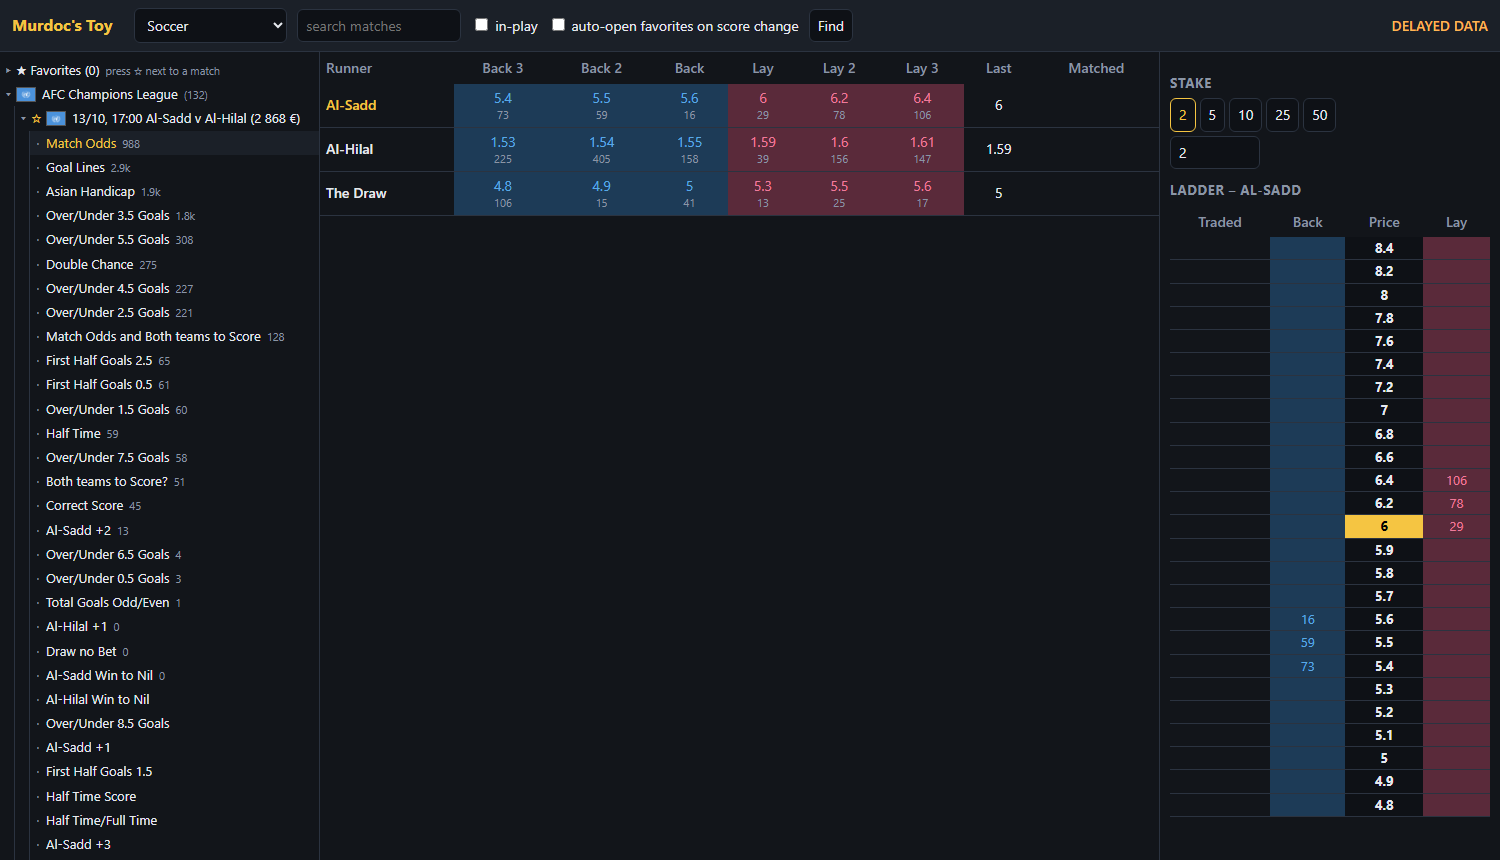
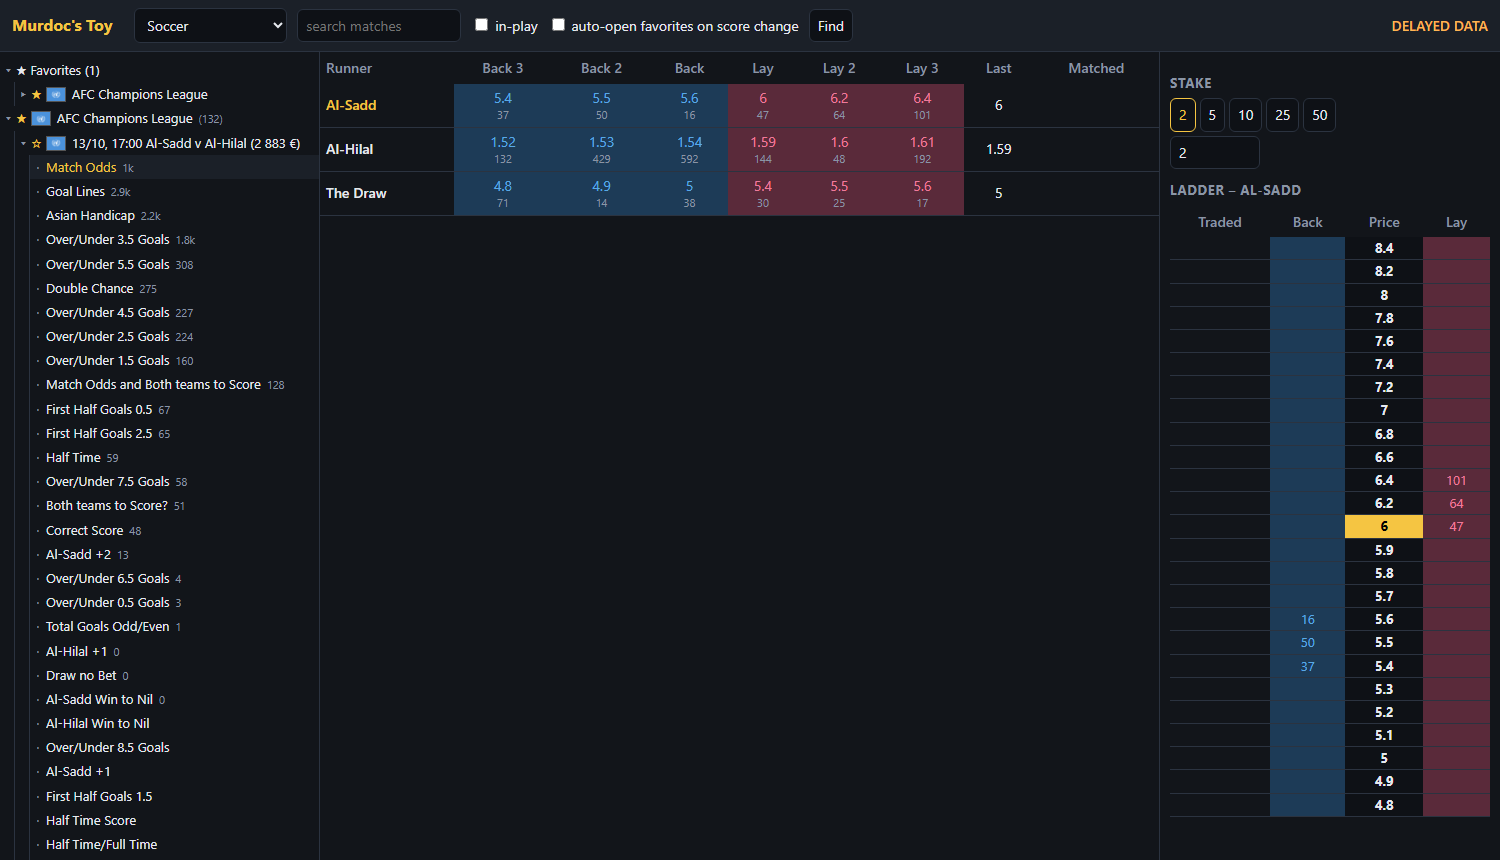
Favorite competitions (desktop Classic and Modern, web); goals in a favorite competition open ladders; v0.4.3

Changed region(s): [[0.0307, 0.3023, 0.184, 0.6651], [0.0, 0.0605, 0.2147, 0.2721], [0.0307, 0.6953, 0.1227, 0.9977]]

diff --git a/web/public/index.html b/web/public/index.html
@@ -185,6 +185,8 @@ const popup = id => window.open('ladder.html?marketId=' + encodeURIComponent(id)
 function pickMarket(m) { state.market = m; state.book = null; state.sel = null; poll(); }
 function marketNode(m) { return treeNode(m.marketName, m.totalMatched > 0 ? short(m.totalMatched) : '', null, () => pickMarket(m), () => popup(m.marketId)); }
 const favs = new Map();   // eventId -> name
+const favComps = new Map();   // competitionId -> { name, sportId, region }
+let favCompEvents = [];   // matches of the favorite competitions, so a goal in any of them can open a ladder
 const volumes = {};       // eventId -> matched volume of the match
 const opened = new Map(); // marketId -> popup window we opened
 
@@ -196,6 +198,29 @@ function eventLabel(e, m) {
   const vol = volumes[e.id] > 0 ? ` (${spaced(volumes[e.id])} €)` : '';
   return when + game + vol;
 }
+
+/** A competition row: flag, star, name; expands to its matches. */
+function compNode(c, sport) {
+  const flag = flagCode(c.region, null, c.name);
+  const n = treeNode(c.name, c.marketCount ? `(${c.marketCount})` : '', async () =>
+    (await api('events?' + qs({ eventTypeId: sport, competitionId: c.id, inPlay: inPlay() }))).map(e => eventNode(e, flag)), null, null, flag);
+  const star = el('span', 'star'); star.title = 'Favorite competition';
+  star.textContent = favComps.has(c.id) ? '★' : '☆';
+  star.onclick = ev => { ev.stopPropagation(); toggleFavComp(c, sport); };
+  n.row.insertBefore(star, n.row.children[1]);
+  n.row.dataset.cid = c.id;
+  return n;
+}
+async function toggleFavComp(c, sport) {
+  try { await api('favoritecompetitions', { competitionId: c.id, name: c.name, sportId: sport, region: c.region ?? null, favorite: !favComps.has(c.id) }); await loadFavs(); }
+  catch (err) { toast(err.message); }
+}
+async function loadFavCompEvents() {
+  const all = [];
+  for (const [id, c] of favComps) { try { all.push(...await api('events?' + qs({ eventTypeId: c.sportId, competitionId: id, inPlay: 0 }))); } catch { /* next time */ } }
+  favCompEvents = all;
+}
+setInterval(loadFavCompEvents, 3 * 60 * 1000);
 
 function eventNode(e, inheritedFlag = null) {
   const code = flagCode(null, e.countryCode, '') ?? inheritedFlag;
@@ -213,15 +238,19 @@ function eventNode(e, inheritedFlag = null) {
 
 async function loadFavs() {
   try { favs.clear(); for (const f of await api('favorites')) favs.set(f.eventId, f.name); } catch { /* keep what we have */ }
-  renderFavs(); paintScores(); pollVolumes();
+  try { favComps.clear(); for (const c of await api('favoritecompetitions')) favComps.set(c.competitionId, { name: c.name, sportId: c.sportId, region: c.region }); } catch { /* older server */ }
+  renderFavs(); paintScores(); pollVolumes(); loadFavCompEvents();
 }
 /** The ★ Favorites section at the top of the tree. */
 function renderFavs() {
   const box = $('markets'); box.querySelector(':scope > [data-fav]')?.remove();
-  const node = treeNode(`★ Favorites (${favs.size})`, favs.size ? '' : 'press ☆ next to a match', async () =>
-    [...favs].map(([id, name]) => eventNode({ id, name, openDate: null })));
+  const count = favs.size + favComps.size;
+  const node = treeNode(`★ Favorites (${count})`, count ? '' : 'press ☆ next to a match or competition', async () => [
+    ...[...favComps].map(([id, c]) => compNode({ id, name: c.name, region: c.region, marketCount: 0 }, c.sportId)),
+    ...[...favs].map(([id, name]) => eventNode({ id, name, openDate: null })),
+  ]);
   node.dataset.fav = '1'; box.prepend(node);
-  if (favs.size) node.open();
+  if (count) node.open();
 }
 async function toggleFav(e) {
   try { await api('favorites', { eventId: e.id, name: e.name, favorite: !favs.has(e.id) }); await loadFavs(); }
@@ -242,7 +271,7 @@ async function find() {
     const nodes = text
       ? (await api('events?' + qs({ eventTypeId: sportId(), q: text, inPlay: inPlay() }))).map(eventNode)
       : (await api('competitions?' + qs({ eventTypeId: sportId(), inPlay: inPlay() }))).map(c =>
-          treeNode(c.name, `(${c.marketCount})`, async () => (await api('events?' + qs({ eventTypeId: sportId(), competitionId: c.id, inPlay: inPlay() }))).map(e => eventNode(e, flagCode(c.region, null, c.name))), null, null, flagCode(c.region, null, c.name)));
+          compNode(c, sportId()));
     box.replaceChildren(...(nodes.length ? nodes : [el('div', 'node', 'Nothing found')]));
     renderFavs();
     if (!state.market) autoSelect(box);
@@ -293,8 +322,11 @@ function checkScoreChanges() {
     const key = m.home + '|' + m.away, cur = `${m.homeScore}-${m.awayScore}`, prev = lastScore.get(key);
     lastScore.set(key, cur);
     if (prev === undefined || prev === cur) continue;
-    for (const [id, name] of favs) {
-      if (matchScore(name, m.home, m.away) <= 0) continue;
+    const watched = [...favs].map(([id, name]) => [id, name]).concat(favCompEvents.map(e => [e.id, e.name]));
+    const seen = new Set();
+    for (const [id, name] of watched) {
+      if (seen.has(id) || matchScore(name, m.home, m.away) <= 0) continue;
+      seen.add(id);
       flashUntil = Date.now() + 20000;
       toast(`${name}: ${prev} -> ${cur}`, 8000);
       if ($('autoopen').checked) openFavoriteLadder(id).catch(e => toast(e.message));

diff --git a/src/MurdocsToy.Desktop/MainForm.cs b/src/MurdocsToy.Desktop/MainForm.cs
@@ -107,11 +107,25 @@ sealed class MainForm : Form
         _find.Click += async (_, _) => await LoadTree();
         _autoOpen.Checked = _opt.AutoOpenOnScore;
         _autoOpen.CheckedChanged += (_, _) => { _opt.AutoOpenOnScore = _autoOpen.Checked; _opt.Save(); Say(_autoOpen.Checked ? "Favorites: ladder opens when a score changes" : "Favorites: auto-open off"); };
-        _favBtn.Click += (_, _) => { if (SelectedEvent() is { } ev) _host.ToggleFavorite(ev); else Say("Select a match first"); };
+        _favBtn.Click += (_, _) =>
+        {
+            if (_tree.SelectedNode is { Tag: CompetitionNode comp } cn) _host.ToggleFavoriteCompetition(comp, string.IsNullOrEmpty(cn.Name) ? SportId : cn.Name);
+            else if (SelectedEvent() is { } ev) _host.ToggleFavorite(ev);
+            else Say("Select a match or competition first");
+        };
         _tree.NodeMouseClick += (_, e) =>
         {
             if (e.Button != MouseButtons.Right) return;
             _tree.SelectedNode = e.Node;
+            if (e.Node.Tag is CompetitionNode comp)
+            {
+                var cmenu = new ContextMenuStrip();
+                var sport = string.IsNullOrEmpty(e.Node.Name) ? SportId : e.Node.Name;
+                cmenu.Items.Add(_host.IsFavoriteCompetition(comp.Id) ? "Remove competition from favorites" : "Add competition to favorites", null, (_, _) => _host.ToggleFavoriteCompetition(comp, sport));
+                Theme.Menu(cmenu);
+                cmenu.Show(_tree, e.Location);
+                return;
+            }
             if (SelectedEvent() is not { } ev) return;
             var menu = new ContextMenuStrip();
             menu.Items.Add(_host.IsFavorite(ev.Id) ? "Remove from favorites" : "Add to favorites", null, (_, _) => _host.ToggleFavorite(ev));
@@ -156,6 +170,7 @@ sealed class MainForm : Form
             _sports.SelectedIndex = Math.Max(0, _host.Types.FindIndex(t => t.Name == "Soccer"));
             _host.StartScores();
             _host.StartMirror();
+            _host.StartFavoriteCompetitions();
             if (_host.Web != null) { _webBtn.Visible = true; _webBtn.Text = "Web " + _host.Web.Url.Replace("http://", "").TrimEnd('/'); Theme.Apply(this); }
             await LoadTree();
             await AutoSelect();
@@ -202,12 +217,20 @@ sealed class MainForm : Form
                 foreach (var e in await _bf.ListEventsAsync(SportId, null, text, _inPlay.Checked)) _tree.Nodes.Add(EventTreeNode(e, null));
             else
                 foreach (var c in await _bf.ListCompetitionsAsync(SportId, _inPlay.Checked))
-                    _tree.Nodes.Add(WithPlaceholder(Node($"{c.Name} ({c.MarketCount})", c, Flags.CodeFor(c.Region, null, c.Name))));
+                    _tree.Nodes.Add(WithPlaceholder(CompetitionNode_(c, SportId, $"{c.Name} ({c.MarketCount})")));
             SyncFavorites();
             _ = RefreshVolumes();
             Say(_tree.Nodes.Count <= 1 ? "Nothing found" : $"{_tree.Nodes.Count} {(text != null ? "matches" : "competitions")}");
         }
         catch (Exception ex) { Say(ex.Message); }
+    }
+
+    /// <summary>A competition node; Name remembers its sport so favorites load correctly after the sport is switched.</summary>
+    TreeNode CompetitionNode_(CompetitionNode c, string sportId, string text)
+    {
+        var n = Node(text, c, Flags.CodeFor(c.Region, null, c.Name));
+        n.Name = sportId;
+        return n;
     }
 
     TreeNode EventTreeNode(EventNode e, string? inheritedFlag)
@@ -237,10 +260,12 @@ sealed class MainForm : Form
         var old = _tree.Nodes.Cast<TreeNode>().FirstOrDefault(x => x.Tag is string t && t == "favorites");
         bool wasOpen = old?.IsExpanded ?? true;
         old?.Remove();
-        var root = Node($"★ Favorites ({_opt.Favorites.Count})", "favorites");
+        var root = Node($"★ Favorites ({_opt.Favorites.Count + _opt.FavoriteCompetitions.Count})", "favorites");
         root.NodeFont = new Font(_tree.Font, FontStyle.Bold);
+foreach (var fc in _opt.FavoriteCompetitions)
+            root.Nodes.Add(WithPlaceholder(CompetitionNode_(new CompetitionNode(fc.CompetitionId, fc.Name, fc.Region, 0), fc.SportId, "★ " + fc.Name)));
         foreach (var f in _opt.Favorites) root.Nodes.Add(EventTreeNode(new EventNode(f.EventId, f.Name, null, null, 0), null));
-        if (_opt.Favorites.Count == 0) root.Nodes.Add(Node("(right-click a match, or select it and press ★ Favorite)", "hint"));
+        if (_opt.Favorites.Count == 0 && _opt.FavoriteCompetitions.Count == 0) root.Nodes.Add(Node("(right-click a match or competition, or select it and press ★ Favorite)", "hint"));
         _tree.Nodes.Insert(0, root);
         if (wasOpen) root.Expand();
         RefreshScores();
@@ -262,7 +287,8 @@ sealed class MainForm : Form
             if (n.Tag is CompetitionNode c)
             {
                 var flag = Flags.CodeFor(c.Region, null, c.Name);
-                kids.AddRange((await _bf.ListEventsAsync(SportId, c.Id, null, _inPlay.Checked)).Select(e => EventTreeNode(e, flag)));
+                var sport = string.IsNullOrEmpty(n.Name) ? SportId : n.Name;
+                kids.AddRange((await _bf.ListEventsAsync(sport, c.Id, null, _inPlay.Checked)).Select(e => EventTreeNode(e, flag)));
             }
             else if (n.Tag is EventNode e)
                 foreach (var m in await _bf.ListEventMarketsAsync(e.Id))

diff --git a/src/MurdocsToy.Desktop/ClassicMainForm.cs b/src/MurdocsToy.Desktop/ClassicMainForm.cs
@@ -97,7 +97,7 @@ sealed class ClassicMainForm : Form
         {
             _host.Types = await _bf.ListEventTypesAsync();
             SportIndex = Math.Max(0, _host.Types.FindIndex(t => t.Name == "Soccer"));
-            _host.StartScores(); _host.StartMirror();
+            _host.StartScores(); _host.StartMirror(); _host.StartFavoriteCompetitions();
             _scoreTimer.Start(); _volTimer.Start(); _keepAlive.Start();
             _ = LoadAccount();
             await LoadTree();
@@ -216,6 +216,14 @@ sealed class ClassicMainForm : Form
 
     void NodeMenu(TreeNode n, Point at)
     {
+        if (n.Tag is CompetitionNode comp)
+        {
+            var cm = new ContextMenuStrip();
+            var sport = string.IsNullOrEmpty(n.Name) ? SportId : n.Name;
+            cm.Items.Add(_host.IsFavoriteCompetition(comp.Id) ? "Remove competition from favorites" : "Add competition to favorites", null, (_, _) => _host.ToggleFavoriteCompetition(comp, sport));
+            cm.Show(_tree, at);
+            return;
+        }
         if (SelectedEvent() is not { } ev) return;
         var menu = new ContextMenuStrip();
         menu.Items.Add(_host.IsFavorite(ev.Id) ? "Remove from favorites" : "Add to favorites", null, (_, _) => _host.ToggleFavorite(ev));
@@ -310,7 +318,7 @@ sealed class ClassicMainForm : Form
                     var flag = Country(grp.First()).Flag;
                     var country = Node(grp.Key, "country", flag, "none");
                     foreach (var c in grp.OrderBy(c => c.Name))
-                        country.Nodes.Add(WithPlaceholder(Node(c.Name, c, null, "ball", bold: true)));
+                        country.Nodes.Add(WithPlaceholder(CompetitionTreeNode(c, SportId)));
                     _tree.Nodes.Add(country);
                 }
             }
@@ -320,6 +328,13 @@ sealed class ClassicMainForm : Form
             RefreshLabels();
         }
         catch (Exception ex) { _status.Text = ex.Message; }
+    }
+
+    TreeNode CompetitionTreeNode(CompetitionNode c, string sportId, bool star = false)
+    {
+        var n = Node((star ? "★ " : "") + c.Name, c, null, "ball", bold: true);
+        n.Name = sportId;                                  // the sport this competition belongs to
+        return n;
     }
 
     TreeNode EventTreeNode(EventNode e, string? flag) =>
@@ -340,7 +355,8 @@ sealed class ClassicMainForm : Form
             if (n.Tag is CompetitionNode c)
             {
                 var (from, to) = Window();
-                kids.AddRange((await _bf.ListEventsAsync(SportId, c.Id, null, _scope == Scope.InPlay, from, to)).Select(e => EventTreeNode(e, null)));
+                var sport = string.IsNullOrEmpty(n.Name) ? SportId : n.Name;
+                kids.AddRange((await _bf.ListEventsAsync(sport, c.Id, null, _scope == Scope.InPlay, from, to)).Select(e => EventTreeNode(e, null)));
             }
             else if (n.Tag is EventNode e)
                 foreach (var m in await _bf.ListEventMarketsAsync(e.Id)) kids.Add(Node(m.MarketName, m, null, "market"));
@@ -367,9 +383,11 @@ sealed class ClassicMainForm : Form
         var old = _tree.Nodes.Cast<TreeNode>().FirstOrDefault(x => x.Tag is string t && t == "favorites");
         bool wasOpen = old?.IsExpanded ?? true;
         old?.Remove();
-        var root = Node($"★ Favorites ({_opt.Favorites.Count})", "favorites", null, "none", bold: true);
+        var root = Node($"★ Favorites ({_opt.Favorites.Count + _opt.FavoriteCompetitions.Count})", "favorites", null, "none", bold: true);
+        foreach (var fc in _opt.FavoriteCompetitions)
+            root.Nodes.Add(WithPlaceholder(CompetitionTreeNode(new CompetitionNode(fc.CompetitionId, fc.Name, fc.Region, 0), fc.SportId, star: true)));
         foreach (var f in _opt.Favorites) root.Nodes.Add(EventTreeNode(new EventNode(f.EventId, f.Name, null, null, 0), null));
-        if (_opt.Favorites.Count == 0) root.Nodes.Add(Node("(right-click a match > Add to favorites)", "hint", null, "none"));
+        if (_opt.Favorites.Count == 0 && _opt.FavoriteCompetitions.Count == 0) root.Nodes.Add(Node("(right-click a match or competition > Add to favorites)", "hint", null, "none"));
         _tree.Nodes.Insert(0, root);
         if (wasOpen) root.Expand();
         RefreshLabels();

diff --git a/src/MurdocsToy.Desktop/AppHost.cs b/src/MurdocsToy.Desktop/AppHost.cs
@@ -71,7 +71,37 @@ sealed class AppHost : IDisposable
 
     // ---- favorites ----------------------------------------------------------------------------------------
     public bool IsFavorite(string eventId) => Opt.Favorites.Any(f => f.EventId == eventId);
-    public string FavoritesSignature => string.Join(",", Opt.Favorites.Select(f => f.EventId));
+    public string FavoritesSignature => string.Join(",", Opt.Favorites.Select(f => f.EventId)) + "|" + string.Join(",", Opt.FavoriteCompetitions.Select(f => f.CompetitionId));
+
+    public bool IsFavoriteCompetition(string competitionId) => Opt.FavoriteCompetitions.Any(f => f.CompetitionId == competitionId);
+
+    public void ToggleFavoriteCompetition(CompetitionNode c, string sportId)
+    {
+        var list = Opt.FavoriteCompetitions.ToList();
+        if (list.RemoveAll(f => f.CompetitionId == c.Id) == 0) list.Add(new FavoriteCompetition(c.Id, c.Name, sportId, c.Region));
+        Opt.FavoriteCompetitions = list; Opt.Save();
+        Say(IsFavoriteCompetition(c.Id) ? $"Added competition to favorites: {c.Name}" : $"Removed competition from favorites: {c.Name}");
+        _ = RefreshCompetitionEvents();
+        FavoritesChanged?.Invoke();
+    }
+
+    // matches of the favorite competitions, so a goal in any of them can open a ladder
+    List<EventNode> _compEvents = new();
+    readonly System.Windows.Forms.Timer _compTimer = new() { Interval = 3 * 60 * 1000 };
+
+    public async Task RefreshCompetitionEvents()
+    {
+        try
+        {
+            var all = new List<EventNode>();
+            foreach (var c in Opt.FavoriteCompetitions.ToList())
+                all.AddRange(await Bf.ListEventsAsync(c.SportId, c.CompetitionId));
+            _compEvents = all;
+        }
+        catch (Exception) { /* try again on the next tick */ }
+    }
+
+    public void StartFavoriteCompetitions() { _ = RefreshCompetitionEvents(); _compTimer.Tick += async (_, _) => await RefreshCompetitionEvents(); _compTimer.Start(); }
 
     public void ToggleFavorite(EventNode ev)
     {
@@ -140,7 +170,9 @@ sealed class AppHost : IDisposable
     {
         if (!Opt.AutoOpenOnScore) return;
         var fav = Opt.Favorites.FirstOrDefault(f => TeamMatcher.Score(f.Name, m.Home, m.Away) > 0);
-        if (fav != null) _ = OpenFavoriteLadder(fav, m, prevHome, prevAway);
+        if (fav != null) { _ = OpenFavoriteLadder(fav, m, prevHome, prevAway); return; }
+        var ev = _compEvents.FirstOrDefault(e => TeamMatcher.Score(e.Name, m.Home, m.Away) > 0);
+        if (ev != null) _ = OpenFavoriteLadder(new FavoriteEvent(ev.Id, ev.Name), m, prevHome, prevAway);
     }
 
     async Task OpenFavoriteLadder(FavoriteEvent fav, LiveMatch m, int prevHome, int prevAway)
@@ -166,5 +198,5 @@ sealed class AppHost : IDisposable
         Environment.Exit(code);
     }
 
-    public void Dispose() { Web?.Dispose(); Scores.Dispose(); }
+    public void Dispose() { _compTimer.Stop(); Web?.Dispose(); Scores.Dispose(); }
 }

diff --git a/src/MurdocsToy.Desktop/WebMirror.cs b/src/MurdocsToy.Desktop/WebMirror.cs
@@ -134,6 +134,7 @@ sealed class WebMirror : IDisposable
     record PlaceBody(string MarketId, long SelectionId, string Side, double Price, double Size, string? Persistence);
     record CancelBody(string MarketId, string BetId);
     record FavBody(string EventId, string Name, bool Favorite);
+    record FavCompBody(string CompetitionId, string Name, string SportId, string? Region, bool Favorite);
 
     async Task<object?> Api(HttpListenerRequest r, string path)
     {
@@ -145,6 +146,7 @@ sealed class WebMirror : IDisposable
             case "GET /api/status": return new { loggedIn = true, hasKey = true, hasEnvCreds = true, mirror = true };
             case "GET /api/mirror": return MirrorState.Snapshot();
             case "GET /api/volumes": return await _bf.GetEventVolumesAsync((Q("ids") ?? "").Split(',', StringSplitOptions.RemoveEmptyEntries));
+            case "GET /api/favoritecompetitions": return _opt.FavoriteCompetitions.Select(c => new { competitionId = c.CompetitionId, c.Name, c.SportId, c.Region });
             case "GET /api/favorites": return _opt.Favorites.Select(f => new { eventId = f.EventId, f.Name });
             case "GET /api/live":
                 return new
@@ -186,6 +188,17 @@ sealed class WebMirror : IDisposable
                     list.RemoveAll(f => f.EventId == fb.EventId);
                     if (fb.Favorite) list.Add(new FavoriteEvent(fb.EventId, fb.Name));
                     _opt.Favorites = list; _opt.Save();
+                }
+                return new { ok = true };
+            case "POST /api/favoritecompetitions":
+                var fc = await Body<FavCompBody>(r);
+                if (string.IsNullOrWhiteSpace(fc.CompetitionId) || string.IsNullOrWhiteSpace(fc.Name) || string.IsNullOrWhiteSpace(fc.SportId)) throw new BetfairException("INVALID_INPUT", "invalid favorite");
+                lock (_opt)
+                {
+                    var list = _opt.FavoriteCompetitions.ToList();
+                    list.RemoveAll(f => f.CompetitionId == fc.CompetitionId);
+                    if (fc.Favorite) list.Add(new FavoriteCompetition(fc.CompetitionId, fc.Name, fc.SportId, fc.Region));
+                    _opt.FavoriteCompetitions = list; _opt.Save();
                 }
                 return new { ok = true };
             case "POST /api/cancel":

diff --git a/src/MurdocsToy.Desktop/Options.cs b/src/MurdocsToy.Desktop/Options.cs
@@ -5,6 +5,9 @@ namespace MurdocsToy.Desktop;
 /// <summary>A match the user starred.</summary>
 public record FavoriteEvent(string EventId, string Name);
 
+/// <summary>A competition the user starred (e.g. AFC Champions League, Primeira Liga); its matches count as favorites.</summary>
+public record FavoriteCompetition(string CompetitionId, string Name, string SportId, string? Region);
+
 /// <summary>User-editable settings, persisted to %APPDATA%\MurdocsToy\options.json.</summary>
 public sealed class Options
 {
@@ -17,6 +20,7 @@ public sealed class Options
     public bool AlwaysOnTop { get; set; } = false;
     public bool AutoCentre { get; set; } = true;
     public List<FavoriteEvent> Favorites { get; set; } = new();
+    public List<FavoriteCompetition> FavoriteCompetitions { get; set; } = new();
     public bool AutoOpenOnScore { get; set; } = false;   // open (or raise) a favorite match's ladder whenever its score changes
     // Classic interface staking
     public double ClassicBackStake { get; set; } = 2;

diff --git a/README.md b/README.md
@@ -19,6 +19,8 @@ Choose one in the **Interface** box on the login form (Classic is the default; y
 
 ![Classic navigator](docs/classic-main.png)
 
+![Classic navigator with a favorite competition](docs/classic-favorites.png)
+
 ![Classic trading window](docs/classic-ladder.png)
 
 ## Features
@@ -28,7 +30,7 @@ Choose one in the **Interface** box on the login form (Classic is the default; y
 - **Pop-up ladders**: double-click a match to open its Match Odds, one ladder per runner side by side. Open as many as you like.
 - **One-click betting**, stake buttons you can edit, custom stakes, cancel-all, bet persistence (lapse / persist / SP), one-click or confirm-every-bet.
 - **Position and green up**: profit if each runner wins or loses, and a button that places the hedge bet locking the same profit either way.
-- **Favorites**: star a match (★ Favorite, right-click, or ☆ in the browser). Favorites sit in a ★ Favorites section at the top of the tree. Tick **Auto-open favorites on score change** and a favorite's ladder opens (or is brought to the front) whenever its score changes, including a goal being taken away by VAR.
+- **Favorites** (matches and competitions): star a match (★ Favorite, right-click, or ☆ in the browser) or a whole **competition** such as AFC Champions League or Primeira Liga (right-click it in the desktop tree, press ★ Favorite on it, or ☆ next to it in the browser). Favorites sit in a ★ Favorites section at the top of the tree; a favorite competition expands to its matches. Tick **Auto-open favorites on score change** and the ladder of any starred match, or of any match in a starred competition, opens (or is brought to the front) whenever its score changes, including a goal being taken away by VAR.
 - **Live scores**: point *Options > Live scores relay* at a WebSocket relay broadcasting JSON `snapshot`, `goal` and `var` messages (`home_team`, `away_team`, `home_score`, `away_score`, optional `scoring_team`). Teams are matched to Betfair events by name (accents, "Utd"/"United", FC/SC prefixes, youth/women/reserve squads handled). The standalone web server reads `MT_RELAY_URL`.
 - **Liquidity tracker** in every pop-up ladder (Modern) and the Classic status panel: matched volume and per-minute rate, money available to back and lay, book percentages, history charts.
 - **Mirror to web**: the desktop app serves the web UI at **http://localhost:8080** (next free port if busy) using its own Betfair session. The browser needs no login, follows the market you select, lists the open ladders and uses your stake buttons. It listens on this machine only, and POSTs need a custom header so other websites cannot place bets.
@@ -51,7 +53,7 @@ Choose one in the **Interface** box on the login form (Classic is the default; y
 
 ## Install (Windows)
 
-Download `MurdocsToy-Setup-0.4.2.exe` from the [Releases](../../releases) page and run it. It needs no .NET install, adds a Start Menu entry and an optional desktop shortcut, and can be removed from *Apps & features*. Windows SmartScreen may warn because the installer is unsigned.
+Download `MurdocsToy-Setup-0.4.3.exe` from the [Releases](../../releases) page and run it. It needs no .NET install, adds a Start Menu entry and an optional desktop shortcut, and can be removed from *Apps & features*. Windows SmartScreen may warn because the installer is unsigned.
 
 On first launch enter your Betfair username, password and application key, and pick an interface.
 
@@ -60,7 +62,7 @@ To build the installer yourself:
 ```bash
 dotnet publish src/MurdocsToy.Desktop -c Release -r win-x64 --self-contained true \
   -p:PublishSingleFile=true -p:IncludeNativeLibrariesForSelfExtract=true -o dist/app
-ISCC.exe installer/MurdocsToy.iss      # needs Inno Setup 6 -> dist/MurdocsToy-Setup-0.4.2.exe
+ISCC.exe installer/MurdocsToy.iss      # needs Inno Setup 6 -> dist/MurdocsToy-Setup-0.4.3.exe
 ```
 
 ## Configure
